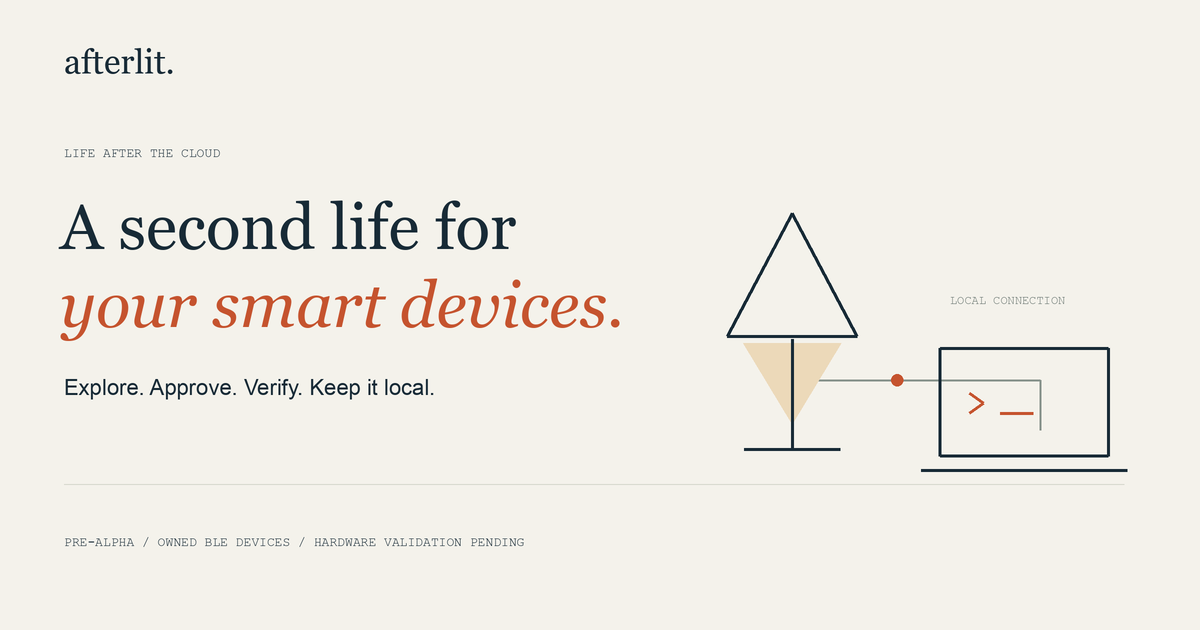
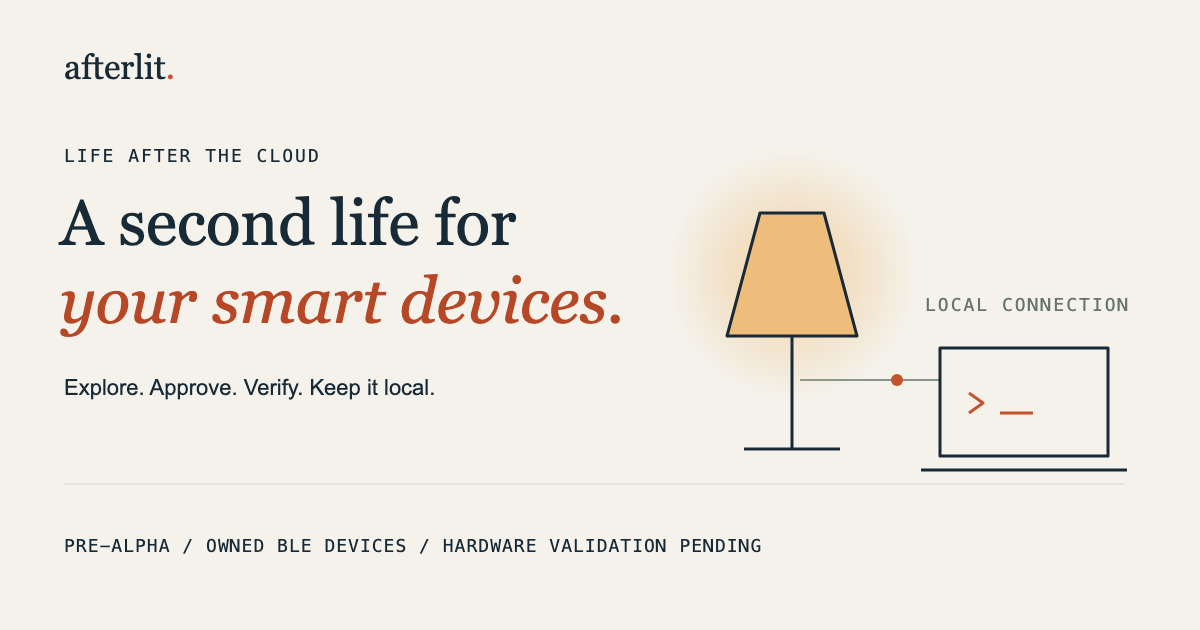
fix(site): resolve visual audit and UAT findings
- Slider: aria-valuetext ("Off"/"N%") and a 44px hit area.
- Terminal: copy-safe line continuation, horizontal scroll region on
  narrow phones, focus ring, non-selectable prompts.
- Raise 9-10px monospace labels to 11px; keep hero-note items whole.
- Hide decorative glyphs from screen readers.
- 404: brand header, no stray top rule, CSP uses 'self'.
- Metadata: og:site_name, image alt text, twitter title/description,
  color-scheme light. Version site.js and styles.css together and
  enforce matching ?v= tokens in check_site.py.
- Social card: legible text sizes, lamp matches the site, accent
  headline, connector no longer crosses the screen.
- README: persistent signing keys have shipped.
- CI: checkout v7.0.1, upload-pages-artifact v5.0.0, deploy-pages
  v5.0.1 (SHA-pinned); group Dependabot updates.

Claude-Session: https://claude.ai/code/session_01VACMaXwn27rkmSoxTkPgkP

diff --git a/website/index.html b/website/index.html
@@ -3,22 +3,28 @@
 <head>
 <meta charset="utf-8">
 <meta name="viewport" content="width=device-width, initial-scale=1">
+<meta name="color-scheme" content="light">
 <meta name="theme-color" content="#f4f2eb">
 <meta name="referrer" content="no-referrer">
 <meta http-equiv="Content-Security-Policy" content="default-src 'none'; script-src 'self'; style-src 'self'; img-src 'self'; connect-src 'none'; base-uri 'none'; form-action 'none'; object-src 'none'">
 <meta name="description" content="afterlit is a pre-alpha local toolkit for investigating cloud-tied BLE devices, approved probing, and signed evidence.">
+<meta property="og:site_name" content="afterlit">
 <meta property="og:title" content="afterlit: life after the cloud">
 <meta property="og:description" content="A pre-alpha local toolkit for investigating cloud-tied BLE devices. Generated integrations are drafts.">
 <meta property="og:image" content="https://ajitpratap0.github.io/afterlit-site/assets/social-card.png">
+<meta property="og:image:alt" content="afterlit: A second life for your smart devices. A lamp connects to a local computer. Pre-alpha, with hardware validation pending.">
 <meta property="og:url" content="https://ajitpratap0.github.io/afterlit-site/">
 <meta property="og:type" content="website">
 <link rel="canonical" href="https://ajitpratap0.github.io/afterlit-site/">
 <meta property="og:image:width" content="1200">
 <meta property="og:image:height" content="630">
 <meta name="twitter:card" content="summary_large_image">
+<meta name="twitter:title" content="afterlit: life after the cloud">
+<meta name="twitter:description" content="A pre-alpha local toolkit for investigating cloud-tied BLE devices. Generated integrations are drafts.">
+<meta name="twitter:image:alt" content="afterlit: A second life for your smart devices. A lamp connects to a local computer. Pre-alpha, with hardware validation pending.">
 <link rel="icon" href="./assets/favicon.svg" type="image/svg+xml">
-<link rel="stylesheet" href="./styles.css?v=20261023-2">
-<script src="./site.js" defer></script>
+<link rel="stylesheet" href="./styles.css?v=20261026-1">
+<script src="./site.js?v=20261026-1" defer></script>
 <title>afterlit: life after the cloud</title>
 </head>
 <body>
@@ -31,16 +37,17 @@
 </header>
 <main id="main">
 <section class="hero" id="top" aria-labelledby="hero-title">
-<div class="hero-copy"><p class="eyebrow">Life after the cloud</p><h1 id="hero-title">A second life for<br> <em>your smart devices.</em></h1><p class="lede">When a vendor drops support, working devices can lose their controls. afterlit helps you investigate local Bluetooth control.</p><div class="hero-actions"><a class="button primary" href="#workflow">See how it works</a><a class="button text-button" href="#demo">Try the browser demo</a></div><p class="hero-note">APACHE-2.0 CORE <span>·</span> LOCAL PROCESSING <span>·</span> EXPLICIT APPROVAL</p><p class="hardware-note">Pre-alpha. Testing on real devices is still pending.</p></div>
+<div class="hero-copy"><p class="eyebrow">Life after the cloud</p><h1 id="hero-title">A second life for<br> <em>your smart devices.</em></h1><p class="lede">When a vendor drops support, working devices can lose their controls. afterlit helps you investigate local Bluetooth control.</p><div class="hero-actions"><a class="button primary" href="#workflow">See how it works</a><a class="button text-button" href="#demo">Try the browser demo</a></div><p class="hero-note"><span class="hero-note-item">APACHE-2.0 CORE</span> <span aria-hidden="true">·</span> <span class="hero-note-item">LOCAL PROCESSING</span> <span aria-hidden="true">·</span> <span class="hero-note-item">EXPLICIT APPROVAL</span></p><p class="hardware-note">Pre-alpha. Testing on real devices is still pending.</p></div>
 <div class="hero-art" role="img" aria-label="A lamp linked directly to a local computer, with the cloud crossed out"><div class="art-top"><span>DEVICE LINK</span><span>LOCAL LINK</span></div><svg viewBox="0 0 570 510" aria-hidden="true"><path class="grid" d="M0 112H570M0 226H570M0 340H570M114 0V510M228 0V510M342 0V510M456 0V510"/><circle class="halo outer" cx="393" cy="208" r="124"/><circle class="halo inner" cx="393" cy="208" r="85"/><path class="wire" d="M130 351h78c23 0 32-17 32-38v-58c0-22 12-33 35-33h49"/><circle class="node" cx="240" cy="312" r="4"/><circle class="node" cx="324" cy="222" r="4"/><path class="screen" d="M64 285h115v73H64z M51 371h140l-12-13H64z"/><path class="screen-detail" d="M78 303h37m-37 13h72m-72 13h58"/><path class="lamp" d="M393 263v104m-43 0h86 M342 255h102l-27-80h-48z M339 255h108"/><path class="cloud" d="M64 93c3-15 17-25 32-22 8-17 32-23 46-9 6-2 13-2 20 0 14 4 22 17 21 29h4c11 0 20 8 20 19s-9 19-20 19H75c-14 0-23-9-23-20 0-8 5-14 12-16Z"/><path class="strike" d="M46 145 211 55"/><text x="62" y="162">NO CLOUD REQUIRED</text><text x="55" y="401">YOUR COMPUTER</text><text x="332" y="401">YOUR DEVICE</text><text class="signal" x="244" y="290">BLE / LOCAL</text></svg><div class="art-bottom"><span>Observe</span><span>Verify</span><span>Keep evidence</span></div></div>
 </section>
 <section class="problem section-rule" aria-labelledby="problem-title"><p class="index">Why afterlit</p><div><h2 id="problem-title">Useful hardware shouldn't expire with a server.</h2><p>afterlit uses local BLE captures to infer commands, asks for approval before each probe write, and checks the state reported by the device.</p></div></section>
 <section class="workflow section-rule" id="workflow" aria-labelledby="workflow-title"><div class="section-heading"><p class="index">Steps</p><h2 id="workflow-title">How afterlit works</h2></div><div class="steps"><article><span class="number">01 / CAPTURE</span><h3>Observe first.</h3><p>Collect local BLE evidence from a device you own, or use the offline simulated capture.</p></article><article><span class="number">02 / INFER</span><h3>Find the pattern.</h3><p>Turn capture bytes into a candidate command grammar that can be reviewed.</p></article><article><span class="number">03 / APPROVE + VERIFY</span><h3>Check the result.</h3><p>Real-device writes require individual approval. A command counts only after all its checks pass and readback shows a driven-state change.</p></article><article><span class="number">04 / EMIT</span><h3>Keep the evidence.</h3><p>Emit local driver and integration drafts, protocol notes, and a signed receipt for the observed result.</p></article></div><p class="method-note"><strong>The probe starts read-only. Each write requires a new approval.</strong> The probe checks every fixed byte of each command, refuses dangerous command names and known OTA/DFU targets, and never logs identifier characteristics. Notification subscriptions need approval too.</p></section>
-<section class="demo-section section-rule" id="demo" aria-labelledby="demo-title"><div class="section-heading demo-heading"><div><p class="index">Simulation</p><h2 id="demo-title">Try the browser demo</h2></div><p>This tiny lamp responds only in your browser. It illustrates a control and readback loop, not a device connection or protocol test.</p></div><div class="workbench"><div class="bench-visual"><div class="bench-top"><span>SIMULATED DEVICE / LAMP 01</span><span>● LOCAL</span></div><div class="bench-stage"><div class="demo-lamp level-75 tone-warm" id="demo-lamp" aria-hidden="true"><div class="demo-glow"></div><div class="demo-shade"></div><div class="demo-stem"></div><div class="demo-base"></div></div></div><p class="bench-foot">Illustration only <span>•</span> No Bluetooth, physical device, or network request</p></div><div class="bench-controls"><p class="panel-label">LOCAL WORKBENCH</p><h3>Control the simulation.</h3><p>Set a level and color. The state panel reflects this browser simulation.</p><fieldset id="demo-controls" disabled><legend class="sr-only">Simulated lamp controls</legend><div class="control-heading"><label for="brightness">Brightness</label><output id="brightness-value" for="brightness">75%</output></div><input id="brightness" type="range" min="0" max="100" step="25" value="75"><div class="range-ends"><span>OFF</span><span>FULL</span></div><div class="color-control"><p id="color-label">Color</p><div class="swatches" role="group" aria-labelledby="color-label"><button type="button" class="swatch swatch-warm" data-tone="warm" aria-label="Warm white" aria-pressed="true" title="Warm white"></button><button type="button" class="swatch swatch-amber" data-tone="amber" aria-label="Amber" aria-pressed="false" title="Amber"></button><button type="button" class="swatch swatch-sage" data-tone="sage" aria-label="Sage" aria-pressed="false" title="Sage"></button><button type="button" class="swatch swatch-blue" data-tone="blue" aria-label="Blue" aria-pressed="false" title="Blue"></button></div></div></fieldset><p class="no-js-note">Enable JavaScript to use the browser-only controls.</p><div class="readback" role="status" aria-live="polite" aria-atomic="true"><div class="readback-title"><span>SIMULATED READBACK</span><span aria-hidden="true">●</span></div><dl><div><dt>Power</dt><dd id="state-power">On</dd></div><div><dt>Level</dt><dd id="state-level">75%</dd></div><div><dt>Color</dt><dd id="state-color">Warm white</dd></div></dl></div><p class="evidence-note">A real afterlit probe requires per-write approval and observed device readback. This panel produces no evidence or receipt.</p></div></div></section>
+<section class="demo-section section-rule" id="demo" aria-labelledby="demo-title"><div class="section-heading demo-heading"><div><p class="index">Simulation</p><h2 id="demo-title">Try the browser demo</h2></div><p>This tiny lamp responds only in your browser. It illustrates a control and readback loop, not a device connection or protocol test.</p></div><div class="workbench"><div class="bench-visual"><div class="bench-top"><span>SIMULATED DEVICE / LAMP 01</span><span><span aria-hidden="true">●</span> LOCAL</span></div><div class="bench-stage"><div class="demo-lamp level-75 tone-warm" id="demo-lamp" aria-hidden="true"><div class="demo-glow"></div><div class="demo-shade"></div><div class="demo-stem"></div><div class="demo-base"></div></div></div><p class="bench-foot">Illustration only <span aria-hidden="true">•</span> No Bluetooth, physical device, or network request</p></div><div class="bench-controls"><p class="panel-label">LOCAL WORKBENCH</p><h3>Control the simulation.</h3><p>Set a level and color. The state panel reflects this browser simulation.</p><fieldset id="demo-controls" disabled><legend class="sr-only">Simulated lamp controls</legend><div class="control-heading"><label for="brightness">Brightness</label><output id="brightness-value" for="brightness">75%</output></div><input id="brightness" type="range" min="0" max="100" step="25" value="75" aria-valuetext="75%"><div class="range-ends"><span>OFF</span><span>FULL</span></div><div class="color-control"><p id="color-label">Color</p><div class="swatches" role="group" aria-labelledby="color-label"><button type="button" class="swatch swatch-warm" data-tone="warm" aria-label="Warm white" aria-pressed="true" title="Warm white"></button><button type="button" class="swatch swatch-amber" data-tone="amber" aria-label="Amber" aria-pressed="false" title="Amber"></button><button type="button" class="swatch swatch-sage" data-tone="sage" aria-label="Sage" aria-pressed="false" title="Sage"></button><button type="button" class="swatch swatch-blue" data-tone="blue" aria-label="Blue" aria-pressed="false" title="Blue"></button></div></div></fieldset><p class="no-js-note">Enable JavaScript to use the browser-only controls.</p><div class="readback" role="status" aria-live="polite" aria-atomic="true"><div class="readback-title"><span>SIMULATED READBACK</span><span aria-hidden="true">●</span></div><dl><div><dt>Power</dt><dd id="state-power">On</dd></div><div><dt>Level</dt><dd id="state-level">75%</dd></div><div><dt>Color</dt><dd id="state-color">Warm white</dd></div></dl></div><p class="evidence-note">A real afterlit probe requires per-write approval and observed device readback. This panel produces no evidence or receipt.</p></div></div></section>
 <section class="outputs section-rule" aria-labelledby="outputs-title"><div><p class="index">Generated files</p><h2 id="outputs-title">What a run produces</h2><p>The prototype emits starting points for local control and a record of what was actually tested. Generated integrations are drafts that need configuration and review.</p></div><ul class="artifact-list"><li><span>01</span><strong>Python driver</strong><small>Local command encoding and state readback</small></li><li><span>02</span><strong>Home Assistant, MCP &amp; ESPHome</strong><small>Integration skeletons and drafts</small></li><li><span>03</span><strong>PROTOCOL.md</strong><small>Human-readable protocol notes</small></li><li><span>04</span><strong>Signed receipt</strong><small>Integrity record for the run and action log</small></li></ul></section>
 <section class="status-section section-rule" id="status" aria-labelledby="status-title"><div class="section-heading"><p class="index">Development</p><h2 id="status-title">Current status</h2></div><div class="status-table"><div class="status-row"><span class="status-dot ready" aria-hidden="true"></span><strong>Offline prototype</strong><span>Available in the source checkout; simulated demo runs locally.</span><span class="state-tag">Available</span></div><div class="status-row"><span class="status-dot pending" aria-hidden="true"></span><strong>Real hardware Gate 1</strong><span>BLE probe path exists; end-to-end device validation has not passed.</span><span class="state-tag">Pending</span></div><div class="status-row"><span class="status-dot future" aria-hidden="true"></span><strong>Registry, LAN &amp; paid APIs</strong><span>No registry submission or LAN transport. No paid LLM call is wired.</span><span class="state-tag">Not implemented</span></div></div></section>
-<section class="quickstart section-rule" id="quickstart" aria-labelledby="quickstart-title"><div><p class="index">Source checkout</p><h2 id="quickstart-title">Run the offline demo.</h2><p>The project source is currently private. If you already have an authorized checkout, these commands run the simulated path without a radio or cloud service.</p></div><div class="terminal"><div class="terminal-head"><span>LOCAL TERMINAL</span><span>NO RADIO REQUIRED</span></div><pre><code><span>$</span> uv sync
-<span>$</span> uv run afterlit hunt --out ./demo_out --apk ./fixtures/apk_method_map.json</code></pre><p>Expected today: exit code <code>0</code>. Three of three commands verified on the simulated strip. Its power frame carries a fixed <code>0xFF</code> filler byte, so the demo applies a pre-declared allowance for that byte and records it in the signed receipt; a real device needs the same allowance confirmed by hand. Use a new <code>--out</code> directory for each run, or omit it to get a timestamped one.</p></div></section>
+<section class="quickstart section-rule" id="quickstart" aria-labelledby="quickstart-title"><div><p class="index">Source checkout</p><h2 id="quickstart-title">Run the offline demo.</h2><p>The project source is currently private. If you already have an authorized checkout, these commands run the simulated path without a radio or cloud service.</p></div><div class="terminal"><div class="terminal-head"><span>LOCAL TERMINAL</span><span>NO RADIO REQUIRED</span></div><pre tabindex="0" role="region" aria-label="Offline demo commands, scroll horizontally to read"><code><span>$</span> uv sync
+<span>$</span> uv run afterlit hunt --out ./demo_out \
+    --apk ./fixtures/apk_method_map.json</code></pre><p>Expected today: exit code <code>0</code>. Three of three commands verified on the simulated strip. Its power frame carries a fixed <code>0xFF</code> filler byte, so the demo applies a pre-declared allowance for that byte and records it in the signed receipt; a real device needs the same allowance confirmed by hand. Use a new <code>--out</code> directory for each run, or omit it to get a timestamped one.</p></div></section>
 <section class="faq section-rule" aria-labelledby="faq-title"><div><p class="index">FAQ</p><h2 id="faq-title">Questions about afterlit</h2></div><div class="faq-list"><details><summary>Will this work with any device?</summary><p>No. Each device has its own behavior, and the real-radio path still needs Gate 1 validation. A fingerprint match is only a lead, not proof of support.</p></details><details><summary>Does it flash firmware?</summary><p>No. The current project does not flash firmware or bypass authentication, pairing, DRM, or licenses.</p></details><details><summary>What does a receipt prove?</summary><p>Its signature and hash chain can show that recorded data has not changed since signing. By default each run uses a one-off key; contributors can sign with their own key and verifiers can pin its fingerprint. A receipt does not establish that hardware was present or that an action was safe. Automated registry acceptance is not implemented.</p></details><details><summary>Can I use it today?</summary><p>Authorized source collaborators can run the offline demo and inspect the emitted files. Real hardware use is pre-alpha and requires per-write approval; generated integrations are drafts.</p></details></div></section>
 </main>
 <footer class="site-footer"><div class="footer-brand"><strong>afterlit<span>.</span></strong><p>Life after the cloud.</p></div><div class="footer-links"><a href="https://github.com/ajitpratap0" rel="noopener noreferrer">By Ajit Pratap Singh</a><a href="https://www.apache.org/licenses/LICENSE-2.0" rel="noopener noreferrer">Apache-2.0</a><a href="https://github.com/ajitpratap0/afterlit-site" rel="noopener noreferrer">Site source</a></div><p class="footer-bottom">A local BLE toolkit in development. <span>© 2026 afterlit</span></p></footer>

diff --git a/website/styles.css b/website/styles.css
@@ -91,7 +91,7 @@ button,input {
   border:1px solid #b9c3b2;
   padding:8px 11px;
   color:#4b654f;
-  font-size:10px;
+  font-size:11px;
   font-weight:700;
   text-transform:uppercase;
   white-space:nowrap
@@ -186,12 +186,15 @@ h3 {
   font-weight:400
 }
 .hero-note {
-  font-size:10px;
+  font-size:11px;
   color:#5d6c64
 }
-.hero-note span {
+.hero-note span[aria-hidden] {
   color:#b64727;
   margin:0 8px
+}
+.hero-note-item {
+  white-space:nowrap
 }
 .hero-art {
   background:#ebe8df;
@@ -208,7 +211,7 @@ h3 {
   z-index:1;
   display:flex;
   justify-content:space-between;
-  font-size:10px;
+  font-size:11px;
   color:#53645a
 }
 .art-top {
@@ -279,6 +282,9 @@ h3 {
 }
 .section-rule {
   border-top:1px solid #d6d4ca;
+  padding:92px 0
+}
+.not-found {
   padding:92px 0
 }
 .index {
@@ -514,14 +520,15 @@ h3 {
 .bench-controls input[type=range] {
   display:block;
   width:100%;
-  margin:19px 0 9px;
+  height:44px;
+  margin:5px 0 0;
   accent-color:#b64727;
   cursor:pointer
 }
 .range-ends {
   display:flex;
   justify-content:space-between;
-  font-size:9px;
+  font-size:11px;
   color:#5d6c64
 }
 .color-control {
@@ -579,7 +586,7 @@ h3 {
 .readback-title {
   display:flex;
   justify-content:space-between;
-  font-size:10px;
+  font-size:11px;
   color:#536e5b;
   font-weight:700
 }
@@ -675,7 +682,7 @@ h3 {
   background:#9ca7a0
 }
 .state-tag {
-  font-size:10px;
+  font-size:11px;
   text-transform:uppercase;
   color:#5d6c64;
   text-align:right
@@ -696,15 +703,20 @@ h3 {
   font-size:12px
 }
 .terminal pre {
-  white-space:pre-wrap;
-  overflow-wrap:anywhere;
+  white-space:pre;
+  overflow-x:auto;
   font-size:13px;
   line-height:2;
   padding:25px 22px 12px;
   margin:0
 }
 .terminal pre span {
-  color:#e4956b
+  color:#e4956b;
+  user-select:none
+}
+.terminal pre:focus-visible {
+  outline:3px solid #e4956b;
+  outline-offset:-3px
 }
 .terminal>p {
   border-top:1px solid #435560;
@@ -902,7 +914,11 @@ h1 br {
 .bench-top {
   flex-wrap:wrap
 }
-.section-rule {
+.terminal pre {
+  font-size:12px;
+  padding:22px 16px 10px
+}
+.section-rule,.not-found {
   padding:70px 0
 }
 .problem {

diff --git a/website/404.html b/website/404.html
@@ -3,17 +3,21 @@
 <head>
   <meta charset="utf-8">
   <meta name="viewport" content="width=device-width, initial-scale=1">
+  <meta name="color-scheme" content="light">
   <meta name="robots" content="noindex">
   <meta name="description" content="This afterlit page could not be found.">
   <meta name="referrer" content="no-referrer">
-  <meta http-equiv="Content-Security-Policy" content="default-src 'none'; style-src https://ajitpratap0.github.io; img-src https://ajitpratap0.github.io; base-uri 'none'; form-action 'none'">
+  <meta http-equiv="Content-Security-Policy" content="default-src 'none'; style-src 'self'; img-src 'self'; base-uri 'none'; form-action 'none'">
   <link rel="icon" href="/afterlit-site/assets/favicon.svg" type="image/svg+xml">
-  <link rel="stylesheet" href="/afterlit-site/styles.css?v=20261023-2">
+  <link rel="stylesheet" href="/afterlit-site/styles.css?v=20261026-1">
   <title>Page not found | afterlit</title>
 </head>
 <body>
   <div class="page-shell">
-    <main class="section-rule">
+    <header class="site-header">
+      <a class="brand" href="/afterlit-site/" aria-label="afterlit, home"><svg viewBox="0 0 48 48" aria-hidden="true"><path d="M12 36 24 12l12 24M18 27h12" fill="none" stroke="currentColor" stroke-linecap="round" stroke-linejoin="round" stroke-width="3"/><circle cx="36" cy="12" r="4" fill="currentColor"/></svg><span>afterlit<span class="accent">.</span></span></a>
+    </header>
+    <main class="not-found">
       <p class="eyebrow">Page not found</p>
       <h1>Page not found</h1>
       <p class="lede">The page you requested could not be found.</p>

diff --git a/website/site.js b/website/site.js
@@ -13,6 +13,7 @@
   function update() {
     const level = Number(brightness.value);
     lamp.className = 'demo-lamp level-' + level + ' tone-' + tone;
+    brightness.setAttribute('aria-valuetext', level === 0 ? 'Off' : level + '%');
     value.value = level + '%';
     value.textContent = level + '%';
     power.textContent = level === 0 ? 'Off' : 'On';

diff --git a/website/tests/check_site_test.py b/website/tests/check_site_test.py
@@ -12,14 +12,17 @@ INDEX = """<!doctype html>
 <html lang="en"><head>
 <meta name="viewport" content="width=device-width, initial-scale=1">
 <meta name="description" content="A local project">
+<meta property="og:image:alt" content="An illustrated local lamp">
+<meta name="color-scheme" content="light">
 <link rel="canonical" href="https://example.github.io/afterlit-site/">
-<link rel="stylesheet" href="styles.css">
+<link rel="stylesheet" href="styles.css?v=20261026-1">
+<script src="site.js?v=20261026-1" defer></script>
 <title>afterlit</title></head>
 <body><main id="top"><p>Use --json and a -10px offset.</p>
 <a href="#top">Back to top</a></main></body></html>
 """
 NOT_FOUND = """<!doctype html><html lang="en"><head>
-<link rel="stylesheet" href="/afterlit-site/styles.css">
+<link rel="stylesheet" href="/afterlit-site/styles.css?v=20261026-1">
 <link rel="icon" href="/afterlit-site/assets/icon.svg">
 <title>Page not found</title></head><body>
 <a href="/afterlit-site/">Home</a></body></html>
@@ -37,10 +40,59 @@ class SiteCheckerTests(unittest.TestCase):
         (self.site / "index.html").write_text(INDEX, encoding="utf-8")
         (self.site / "404.html").write_text(NOT_FOUND, encoding="utf-8")
         (self.site / "styles.css").write_text(CSS, encoding="utf-8")
+        (self.site / "site.js").write_text('"use strict";', encoding="utf-8")
         (self.site / "assets/icon.svg").write_text(SVG, encoding="utf-8")
 
     def test_valid_project_paths_and_ordinary_hyphens(self) -> None:
         self.assertEqual(check(self.site), [])
+
+    def test_missing_or_empty_asset_versions_are_rejected(self) -> None:
+        for filename, template, asset in (
+            ("index.html", INDEX, "styles.css"),
+            ("index.html", INDEX, "site.js"),
+            ("404.html", NOT_FOUND, "/afterlit-site/styles.css"),
+        ):
+            for version in ("", "?v=", "?v=+", "?v=one&v=two"):
+                with self.subTest(filename=filename, asset=asset, version=version):
+                    path = self.site / filename
+                    path.write_text(
+                        template.replace(asset + "?v=20261026-1", asset + version),
+                        encoding="utf-8",
+                    )
+                    self.assertTrue(any("needs one non-empty ?v= version" in error for error in check(self.site)))
+                    path.write_text(template, encoding="utf-8")
+
+    def test_mismatched_css_and_js_versions_are_rejected_across_pages(self) -> None:
+        for filename, template, asset in (
+            ("index.html", INDEX, "styles.css"),
+            ("index.html", INDEX, "site.js"),
+            ("404.html", NOT_FOUND, "/afterlit-site/styles.css"),
+        ):
+            with self.subTest(filename=filename, asset=asset):
+                path = self.site / filename
+                path.write_text(
+                    template.replace(asset + "?v=20261026-1", asset + "?v=older"),
+                    encoding="utf-8",
+                )
+                self.assertTrue(any("asset versions differ" in error for error in check(self.site)))
+                path.write_text(template, encoding="utf-8")
+
+    def test_required_social_alt_and_color_scheme_metadata(self) -> None:
+        for key, tag in (
+            ("og:image:alt", '<meta property="og:image:alt" content="An illustrated local lamp">'),
+            ("color-scheme", '<meta name="color-scheme" content="light">'),
+        ):
+            empty_tag = tag[: tag.index('content="')] + 'content=" ">'
+            for replacement in ("", empty_tag):
+                with self.subTest(key=key, replacement=replacement):
+                    (self.site / "index.html").write_text(INDEX.replace(tag, replacement), encoding="utf-8")
+                    self.assertTrue(any(f"non-empty {key} meta tag" in error for error in check(self.site)))
+
+    def test_color_scheme_must_be_light(self) -> None:
+        (self.site / "index.html").write_text(
+            INDEX.replace('content="light"', 'content="dark"'), encoding="utf-8"
+        )
+        self.assertTrue(any("color-scheme must be light" in error for error in check(self.site)))
 
     def test_encoded_html_dash_in_404_is_rejected(self) -> None:
         (self.site / "404.html").write_text(

diff --git a/scripts/check_site.py b/scripts/check_site.py
@@ -7,7 +7,7 @@ import sys
 import xml.etree.ElementTree as ET
 from html.parser import HTMLParser
 from pathlib import Path
-from urllib.parse import unquote, urlsplit
+from urllib.parse import parse_qs, unquote, urlsplit
 
 DASHES = {"\u2013": "en dash", "\u2014": "em dash", "\u2212": "minus sign"}
 CSS_QUOTED = r"""(?:"(?:\\.|[^"\\])*"|'(?:\\.|[^'\\])*')"""
@@ -206,20 +206,32 @@ def check(site: Path) -> list[str]:
         errors.append("index.html: missing html lang")
     if parser.title_count != 1 or not parser.title_text.strip():
         errors.append("index.html: expected one non-empty title")
-    for key in ("viewport", "description"):
+    for key in ("viewport", "description", "og:image:alt", "color-scheme"):
         if len(parser.meta.get(key, [])) != 1 or not parser.meta[key][0].strip():
             errors.append(f"index.html: expected one non-empty {key} meta tag")
+    if parser.meta.get("color-scheme") and parser.meta["color-scheme"] != ["light"]:
+        errors.append("index.html: color-scheme must be light")
     prefix = project_prefix(parser, errors)
+    asset_versions: set[str] = set()
 
     for html, page in pages.items():
         for attribute, raw in page.references:
             target, anchor = resolve_reference(
                 raw, site, html, prefix, f"{page.source} {attribute}", errors
             )
+            if target is not None and target.suffix.lower() in {".css", ".js"}:
+                versions = parse_qs(urlsplit(raw).query, keep_blank_values=True).get("v", [])
+                if len(versions) != 1 or not versions[0].strip():
+                    errors.append(f"{page.source}: local CSS/JS reference needs one non-empty ?v= version: {raw}")
+                else:
+                    asset_versions.add(versions[0])
             if target is not None and raw.endswith("#"):
                 errors.append(f"{page.source}: empty anchor {raw}")
             elif target in pages and anchor and anchor not in pages[target].ids:
                 errors.append(f"{page.source}: dangling anchor {raw}")
+
+    if len(asset_versions) > 1:
+        errors.append("local CSS/JS asset versions differ: " + ", ".join(sorted(asset_versions)))
 
     for css in site.rglob("*.css"):
         source = str(css.relative_to(site))

diff --git a/README.md b/README.md
@@ -30,8 +30,8 @@ the `gh-pages` branch changes. Pull requests run checks without deploying.
 Actions are pinned to commit SHAs. No custom domain or deployment credential
 is required. Site updates should go through pull requests.
 
-The project is pre-alpha. Real-device Gate 1 validation, persistent CLI key
-management and automated registry acceptance remain outstanding. The site
+The project is pre-alpha. Real-device Gate 1 validation and automated
+registry acceptance remain outstanding. The site
 distinguishes local prototype behavior from planned features.
 
 Apache-2.0. See `LICENSE` and `NOTICE`.
